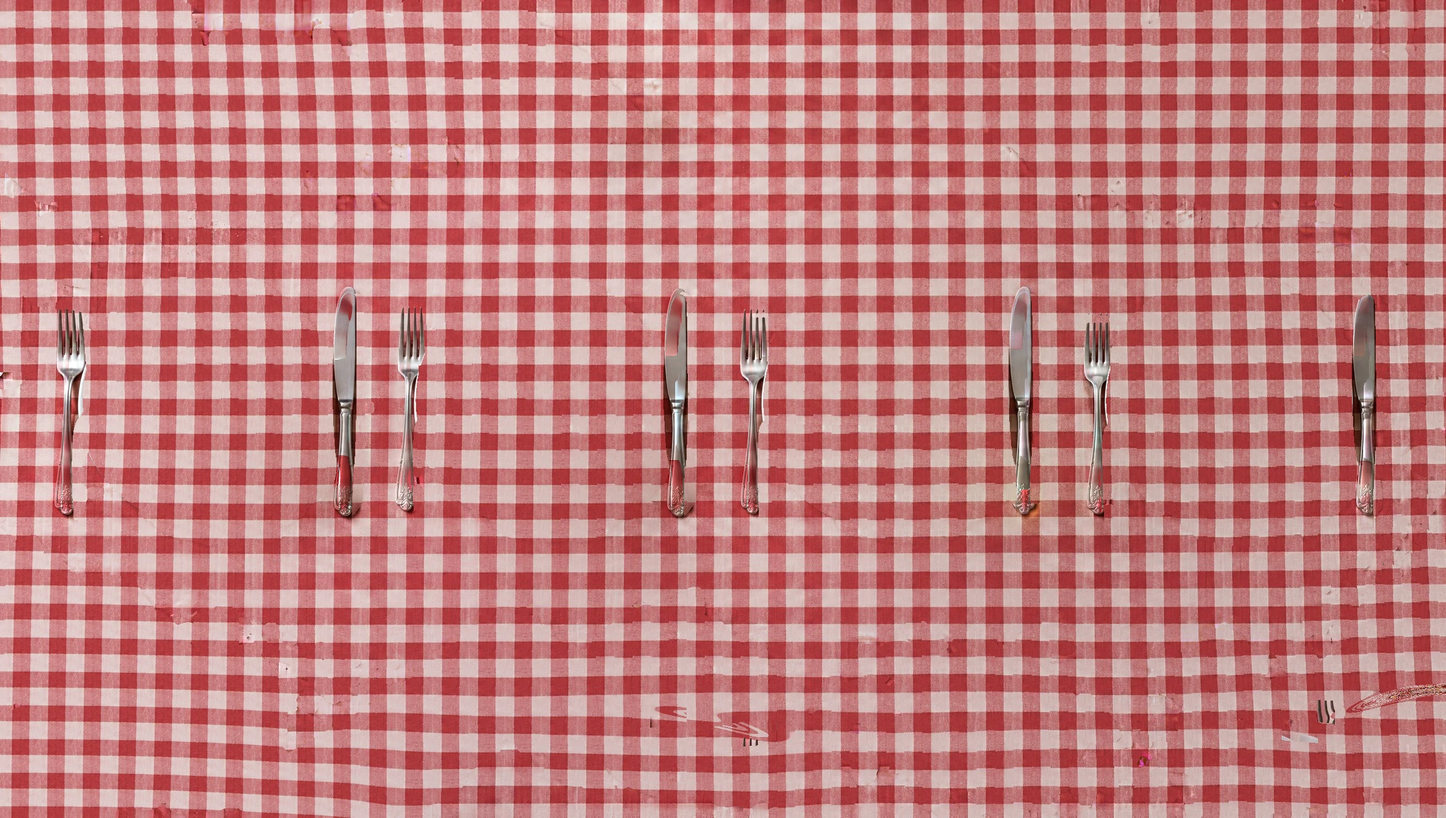
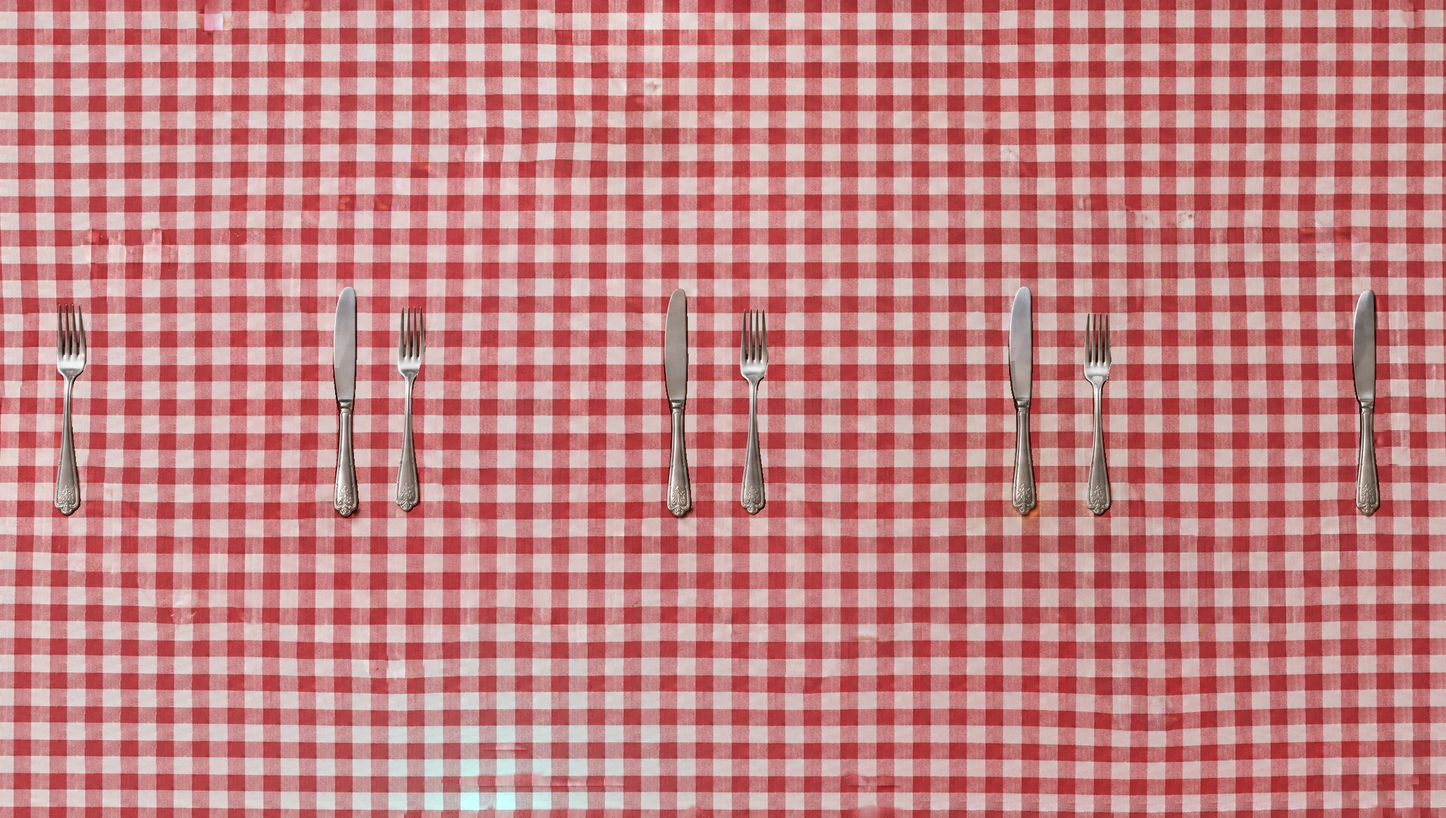
Antica Roma: ingredienti ritagliati dalla foto che cadono dall'aereo e si spostano col cursore; tovaglia ricostruita; piatti 3D
Claude-Session: https://claude.ai/code/session_014KWzxxpjX5MfFtTWRtoW2X

diff --git a/antica-roma/js/app.js b/antica-roma/js/app.js
@@ -226,7 +226,9 @@
       n.alt = ''; n.draggable = false; n.src = 'assets/table/' + it.src;
       n.style.zIndex = String(10 + (it.z || 0));
       waits.push(track(n));
-      ings.push({ it, el: n, i, ang: 0, spin: (r() < 0.5 ? -1 : 1) * (140 + r() * 260), jx: (r() - 0.5) * 0.5, jy: (r() - 0.5) * 0.8,
+      // ingredientes cortados por el borde de la foto: entran deslizando desde fuera de la pantalla
+      const bx = it.box, ox = (bx.x < 0.004 ? -1 : 0) + (bx.x + bx.w > 0.996 ? 1 : 0), oy = (bx.y < 0.004 ? -1 : 0) + (bx.y + bx.h > 0.996 ? 1 : 0);
+      ings.push({ it, el: n, i, ang: 0, edge: ox !== 0 || oy !== 0, out: [ox, oy], spin: (r() < 0.5 ? -1 : 1) * (140 + r() * 260), jx: (r() - 0.5) * 0.5, jy: (r() - 0.5) * 0.8,
         dir: 0, reach: 0.35 + r() * 0.35, ox: 0, oy: 0, vx: 0, vy: 0, ro: 0, vr: 0, start: 0 });
     });
     // orden de salida: del centro hacia fuera, alternando lados
@@ -237,7 +239,7 @@
   // tarjeta con el nombre del restaurante (también cae del avión)
   const card = el('div', 'ing place-card', ingLayer);
   card.innerHTML = '<svg viewBox="0 0 64 40" aria-hidden="true"><use href="#ico-laurel"/></svg><b>Antica Roma</b><span>Cucina romana · Mérida</span>';
-  const cardSpec = { it: { cx: 0.493, cy: 0.128, box: { x: 0.388, y: 0.06, w: 0.21, h: 0.136 } }, el: card, i: 99, spin: -24, jx: 0, jy: 0,
+  const cardSpec = { it: { cx: 0.512, cy: 0.118, box: { x: 0.427, y: 0.063, w: 0.17, h: 0.11 } }, el: card, i: 99, spin: -24, jx: 0, jy: 0,
     dir: -Math.PI / 2, reach: 0.25, ox: 0, oy: 0, vx: 0, vy: 0, ro: 0, vr: 0, start: T.burst + 0.03, isCard: true };
   ings.push(cardSpec);
 
@@ -290,7 +292,7 @@
       const bx = g.it.box;
       g.w = bx.w * TW; g.h = bx.h * TH;
       g.el.style.width = g.w + 'px'; g.el.style.height = g.h + 'px';
-      if (g.isCard) g.el.style.fontSize = (g.w / 17) + 'px';
+      if (g.isCard) g.el.style.fontSize = (g.w / 15) + 'px';
     });
   }
   // imagen de la mesa (coords normalizadas) → pantalla, antes del encuadre de transición
@@ -561,11 +563,19 @@
       const reach = g.reach * Math.min(vw, vh);
       const c1x = s0x + Math.cos(g.dir) * reach, c1y = s0y + Math.sin(g.dir) * reach - reach * 0.35;
       const e = E.inOutSine(u);
-      const ix = (1 - e) * (1 - e) * s0x + 2 * (1 - e) * e * c1x + e * e * ex;
-      const iy = (1 - e) * (1 - e) * s0y + 2 * (1 - e) * e * c1y + e * e * ey;
+      let ix = (1 - e) * (1 - e) * s0x + 2 * (1 - e) * e * c1x + e * e * ex;
+      let iy = (1 - e) * (1 - e) * s0y + 2 * (1 - e) * e * c1y + e * e * ey;
       const bump = Math.sin(Math.PI * seg(u, 0.84, 1));
-      const scale = lerp(0.1, 1, E.inCubic(Math.min(1, u / 0.86))) * tk2 * (1 + bump * 0.07);
+      let scale = lerp(0.1, 1, E.inCubic(Math.min(1, u / 0.86))) * tk2 * (1 + bump * 0.07);
       let rotI = g.spin * (1 - E.outCubic(u)) + (G.portrait ? 90 : 0);
+      if (g.edge) {
+        let [ox, oy] = g.out;
+        if (G.portrait) [ox, oy] = [-oy, ox];
+        const k = 1 - E.outCubic(u), far = Math.max(vw, vh) * 0.55;
+        ix = ex + ox * far * k; iy = ey + oy * far * k;
+        scale = tk2 * (1 + bump * 0.04);
+        rotI = g.spin * 0.08 * k + (G.portrait ? 90 : 0);
+      }
       // física: el cursor empuja los ingredientes posados
       const landed = u >= 1;
       if (landed && !S.modalOpen) {
@@ -588,7 +598,7 @@
       const disp = Math.hypot(g.ox, g.oy);
       const x = ix + g.ox + par[0] * 0.8, y = iy + g.oy + par[1] * 0.8;
       g.el.style.transform = `translate3d(${(x - g.w / 2).toFixed(1)}px,${(y - g.h / 2).toFixed(1)}px,0) rotate(${(rotI + g.ro).toFixed(2)}deg) scale(${scale.toFixed(4)})`;
-      g.el.style.opacity = String(seg(u, 0, 0.06));
+      g.el.style.opacity = String(g.edge ? 1 : seg(u, 0, 0.06));
       const air = 1 - E.outCubic(u) + disp / 160;
       const sh = 3 + air * 26, bl = 3 + air * 20;
       g.el.style.filter = `drop-shadow(${(sh * 0.55).toFixed(1)}px ${sh.toFixed(1)}px ${bl.toFixed(1)}px rgba(48,8,8,${(0.42 - air * 0.12).toFixed(2)}))`;

diff --git a/antica-roma/js/table-data.js b/antica-roma/js/table-data.js
@@ -1,1 +1,1 @@
-window.AR = window.AR || {}; AR.tableData = null; // generato da tools/build-table-data.py
+window.AR = window.AR || {}; AR.tableData = {"image":{"w":2304,"h":1303},"cloth":"cloth.webp","plates":[{"id":1,"src":"plate-1.webp","cx":0.142795,"cy":0.487337,"r":0.085938},{"id":2,"src":"plate-2.webp","cx":0.372396,"cy":0.488872,"r":0.085503},{"id":3,"src":"plate-3.webp","cx":0.612847,"cy":0.489639,"r":0.085503},{"id":4,"src":"plate-4.webp","cx":0.849826,"cy":0.489639,"r":0.085503}],"ingredients":[{"id":"ing-01","name":"pecorino romano","src":"ing-01.webp","box":{"x":0.0,"y":0.0,"w":0.210503,"h":0.314658},"cx":0.105252,"cy":0.157329,"z":8},{"id":"ing-02","name":"fusilli","src":"ing-02.webp","box":{"x":0.133247,"y":0.028396,"w":0.179688,"h":0.23561},"cx":0.22309,"cy":0.146201,"z":4},{"id":"ing-03","name":"pomodorini e basilico","src":"ing-03.webp","box":{"x":0.243924,"y":0.0,"w":0.178385,"h":0.18726},"cx":0.333116,"cy":0.09363,"z":5},{"id":"ing-04","name":"basilico","src":"ing-04.webp","box":{"x":0.0,"y":0.236378,"w":0.061198,"h":0.242517},"cx":0.030599,"cy":0.357636,"z":4},{"id":"ing-05","name":"aglio e basilico","src":"ing-05.webp","box":{"x":0.678385,"y":0.0,"w":0.109375,"h":0.245587},"cx":0.733073,"cy":0.122794,"z":6},{"id":"ing-06","name":"guanciale","src":"ing-06.webp","box":{"x":0.74566,"y":0.0,"w":0.170139,"h":0.237913},"cx":0.830729,"cy":0.118956,"z":5},{"id":"ing-07","name":"olio extravergine d'oliva","src":"ing-07.webp","box":{"x":0.868056,"y":0.016117,"w":0.091146,"h":0.224098},"cx":0.913628,"cy":0.128166,"z":8},{"id":"ing-08","name":"Chianti","src":"ing-08.webp","box":{"x":0.934462,"y":0.0,"w":0.065538,"h":0.303147},"cx":0.967231,"cy":0.151573,"z":9},{"id":"ing-09","name":"basilico","src":"ing-09.webp","box":{"x":0.93967,"y":0.305449,"w":0.06033,"h":0.323101},"cx":0.969835,"cy":0.466999,"z":4},{"id":"ing-10","name":"tagliatelle e basilico","src":"ing-10.webp","box":{"x":0.0,"y":0.649271,"w":0.170573,"h":0.350729},"cx":0.085286,"cy":0.824635,"z":2},{"id":"ing-11","name":"basilico","src":"ing-11.webp","box":{"x":0.133247,"y":0.737529,"w":0.084635,"h":0.24175},"cx":0.175564,"cy":0.858404,"z":4},{"id":"ing-12","name":"spaghetti","src":"ing-12.webp","box":{"x":0.161458,"y":0.739064,"w":0.236111,"h":0.260936},"cx":0.279514,"cy":0.869532,"z":3},{"id":"ing-13","name":"pomodorini e basilico","src":"ing-13.webp","box":{"x":0.351562,"y":0.718342,"w":0.264323,"h":0.259401},"cx":0.483724,"cy":0.848043,"z":5},{"id":"ing-14","name":"farfalle","src":"ing-14.webp","box":{"x":0.575087,"y":0.753645,"w":0.214844,"h":0.246355},"cx":0.682509,"cy":0.876823,"z":3},{"id":"ing-15","name":"fusilli e basilico","src":"ing-15.webp","box":{"x":0.783854,"y":0.70683,"w":0.169705,"h":0.29317},"cx":0.868707,"cy":0.853415,"z":4},{"id":"ing-16","name":"pomodorini","src":"ing-16.webp","box":{"x":0.910156,"y":0.582502,"w":0.089844,"h":0.359171},"cx":0.955078,"cy":0.762087,"z":5},{"id":"ing-17","name":"pepe nero","src":"ing-17.webp","box":{"x":0.707465,"y":0.181888,"w":0.230035,"h":0.102072},"cx":0.822483,"cy":0.232924,"z":1},{"id":"ing-18","name":"pepe nero","src":"ing-18.webp","box":{"x":0.159722,"y":0.76132,"w":0.088108,"h":0.097467},"cx":0.203776,"cy":0.810054,"z":1}]};
